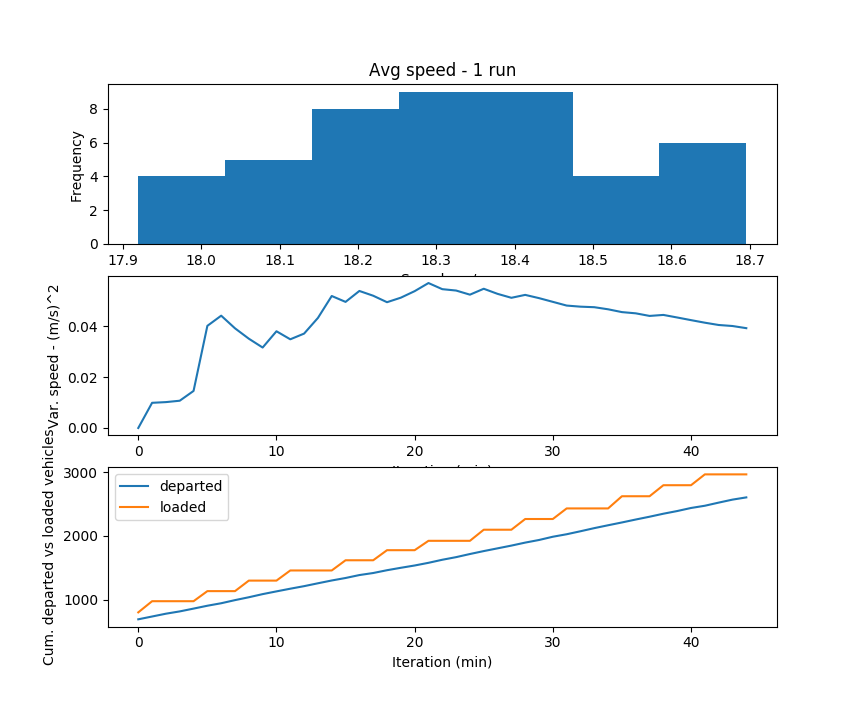
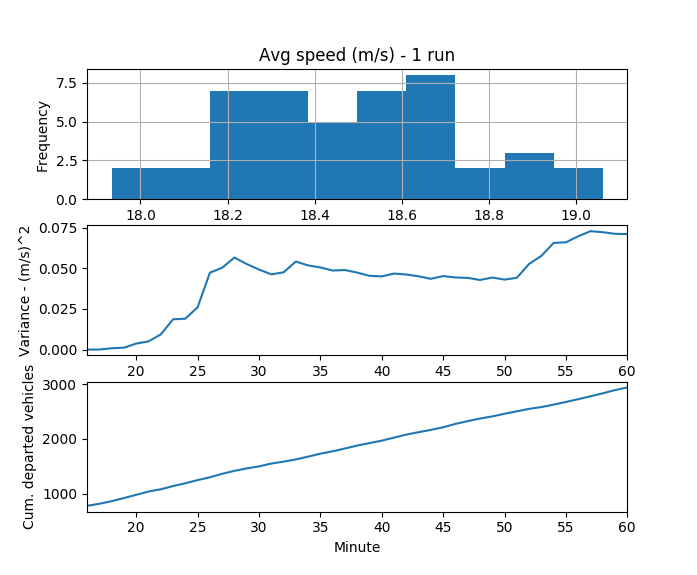
Fix plots and indexes in intra sim

diff --git a/sumo_intra_sim.py b/sumo_intra_sim.py
@@ -87,33 +87,29 @@ for runs in range(number_runs):
 
 traci.close()  # closing simulation
 
-print("Final stats:")
-table = [('Mean speed', all_speeds),
-         ('Variance', all_variances),
-         ('Cum departed', all_departed),
-         ('Cum loaded', all_loaded)]
-df = pd.DataFrame.from_items(table)
+minutes = np.arange(16, 16 + len(all_speeds)).tolist()
 
+df = pd.DataFrame({
+    'mean_speed': all_speeds,
+    'variance': all_variances,
+    'cum_departed': all_departed
+    }, index=minutes)
+
+print("Final stats:")
 print(df)
+
 fig, (p1,p2,p3) = plt.subplots(3,1,sharex=False, sharey=False)
-p1.hist(all_speeds, bins="auto")
-p1.set_title("Avg speed - 1 run")
+
+df['mean_speed'].hist(ax=p1)
+p1.set_title("Avg speed (m/s) - 1 run")
 p1.set_xlabel("Speed - m/s")
 p1.set_ylabel("Frequency")
 
-p2.plot(all_variances)
-p2.set_xlabel("Iteration (min)")
-p2.set_ylabel("Var. speed - (m/s)^2")
+df['variance'].plot(ax=p2, use_index=True)
+p2.set_xlabel("Minute")
+p2.set_ylabel("Variance - (m/s)^2")
 
-#plt.subplot(3,1,3)
-#p3.plot(all_n_vehicles)
-#p3.set_title("Vehicles added - {} runs".format(number_runs))
-#p3.set_xlabel("Iteration (min)")
-#p3.set_ylabel("No. of vehicles")
-
-p3.plot(all_departed, label="departed")
-p3.plot(all_loaded, label="loaded")
-p3.set_xlabel("Iteration (min)")
-p3.set_ylabel("Cum. departed vs loaded vehicles")
-plt.legend()
+df['cum_departed'].plot(ax=p3, use_index=True)
+p3.set_xlabel("Minute")
+p3.set_ylabel("Cum. departed vehicles")
 plt.show()
